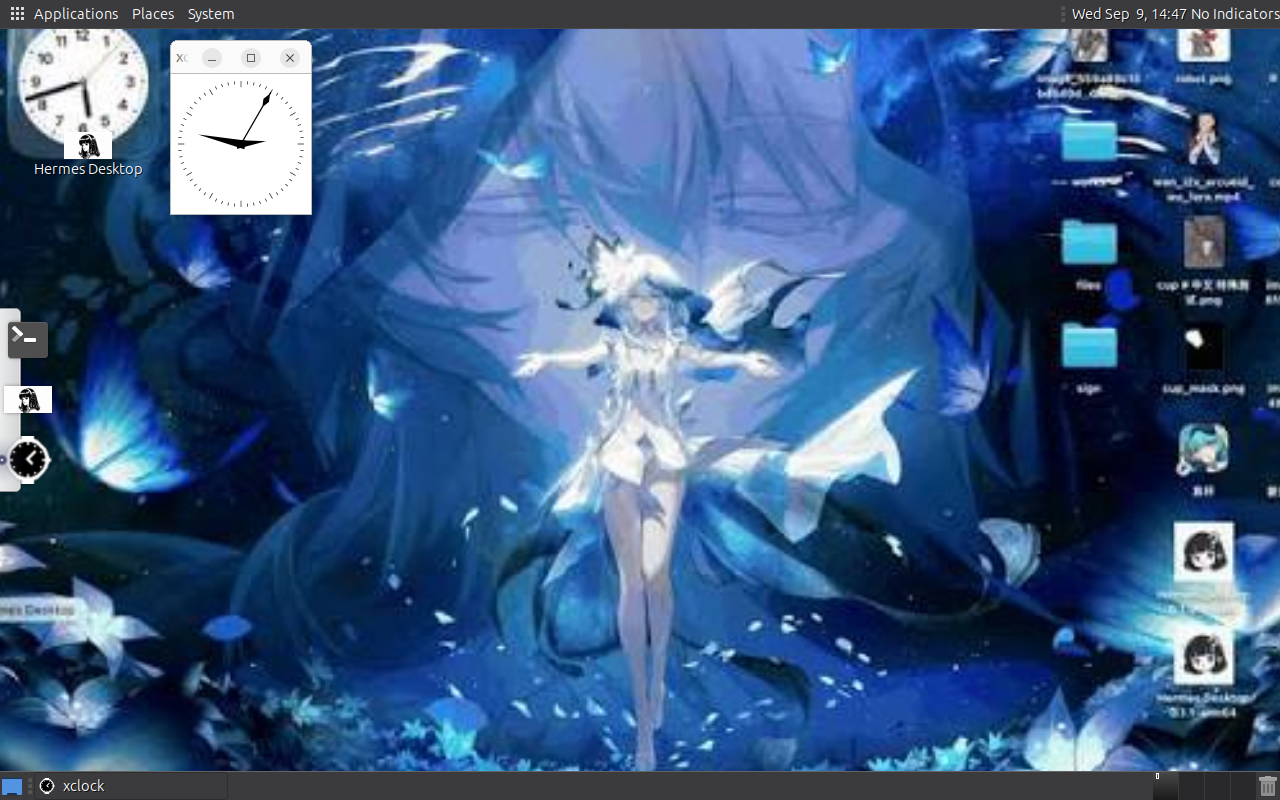
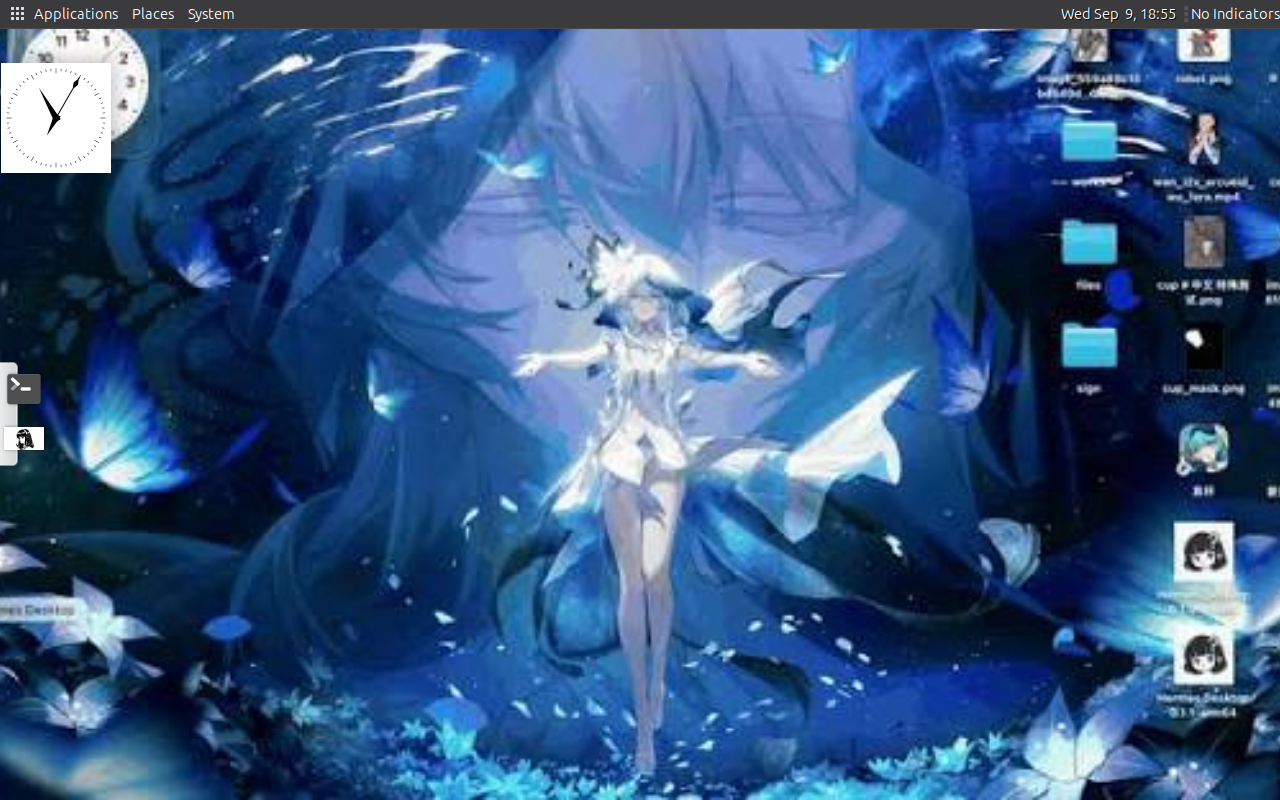
Refresh the MATE preview and verification record from the clean-room run
The screenshot is the desktop a real RDP login lands on after building main at b8d9a1f
into an empty Docker image store, and every row of the verification table is now measured
on that same image: build, health, typed login (display 11 after a container restart),
frameless 110px clock widget, root from a terminal inside the session, 0 upgraded, Hermes
CLI and Desktop app, volume persistence across recreation.

diff --git a/README.md b/README.md
@@ -9,7 +9,7 @@ AI agent in the terminal.
 What a user sees after connecting over RDP, captured in a real `xfreerdp` session logged in as
 `ubuntu` (1280x800, first login, nothing hand-edited afterwards):
 
-![Ubuntu MATE XRDP desktop: blue anime wallpaper, single top panel, left Plank dock, analog clock widget on the wallpaper, Hermes Desktop icon](assets/preview.png)
+![Ubuntu MATE XRDP desktop: the reference wallpaper, single top panel, left Plank dock with Hermes Desktop and the terminal pinned, frameless analog clock widget over the drawn clock](assets/preview.png)
 
 The layout follows the wallpaper: the analog clock widget sits over the drawn clock so the live
 one replaces it, the Plank dock on the left pins Hermes Desktop and the terminal, and only the
@@ -106,18 +106,19 @@ configure Hermes via `hermes setup`.
 ## Verification status
 
 Verified on a GitHub Codespace (`standardLinux32gb`: 4 vCPU, 16 GB RAM, root through
-passwordless sudo) with Docker 29.7.2, building `main` at 39c65d3 into an empty image store.
+passwordless sudo) with Docker 29.7.2, building `main` at b8d9a1f into an image store that
+had been pruned to nothing, so no layer was inherited from an earlier build.
 
 | Check | Result |
 | --- | --- |
-| `docker build` from scratch | PASS - exit 0, image 7.9 GB |
-| GitHub Actions CI build | PASS - run #12 on the same commit |
+| `docker build` from scratch | PASS - exit 0, image 7.91 GB |
+| GitHub Actions CI build | PASS - run #13 on the same commit |
 | Container starts and stays up | PASS - `healthy`, restart count 0 |
 | Healthcheck (`xrdp` + `xrdp-sesman`) | PASS - both processes running, TCP 3389 listening |
 | Real RDP login as `ubuntu` | PASS - username and password typed into the XRDP login window through an `xfreerdp` client session; server log: `login successful for user ubuntu on display 10` |
 | MATE session after login | PASS - session, window manager, panel and Plank all start; no black screen, no disconnect |
-| Desktop layout | PASS - single top panel with menu and clock, left Plank dock with Hermes Desktop and terminal, analog clock widget aligned with the wallpaper, no bottom panel |
-| Root access for the RDP user | PASS - `sudo -i` from that session gives `uid=0(root)`; `sudo -l` shows `(ALL) NOPASSWD: ALL`, `/etc/sudoers.d/ubuntu` is `0440` |
+| Desktop layout | PASS - single top panel with menu and clock, left Plank dock pinning Hermes Desktop and the terminal, 110px frameless analog clock widget over the clock drawn in the wallpaper, no bottom panel, no leftover home/filesystem/trash icons |
+| Root access for the RDP user | PASS - `whoami`, `sudo -i`, `id`, `nproc`, `free -g` and `apt-get -s upgrade` typed into a terminal inside the RDP session (`uid=0(root)`, 4 CPUs, 15 GB); `sudo -l` shows `(ALL) NOPASSWD: ALL`, `/etc/sudoers.d/ubuntu` is `0440` |
 | Image is already patched | PASS - `apt-get update && apt-get -s upgrade` inside the container reports `0 upgraded`; base is Ubuntu 24.04.5 LTS |
 | Hermes CLI | PASS - `hermes --version` -> `Hermes Agent v0.21.1 (2026.9.7)`; `ai` opens the real agent prompt (19 tools, skill list, `/help`) |
 | Hermes Desktop app | PASS - `/usr/local/bin/hermes-desktop-launch` opens the app window inside the RDP session (`Web UI v0.6.7`) |
@@ -133,8 +134,11 @@ to the upstream install, not to this image.
 ## Hermes Desktop (GUI)
 
 Bundles the Electron **Hermes Desktop** app (fork: `jjkh1673-tech/hermes-desktop`, upstream
-`sir1st/hermes-desktop`): launcher on the desktop, icon in the Plank dock, and the black-and-white
-Hermes artwork as its application icon. The CLI agent stays available as `hermes` / `ai`.
-Both editions share the same dock, clock widget and icon styling; the wallpaper is the only thing
-that differs - this XFCE edition keeps the classic dark Ubuntu wallpaper, and the MATE edition
-(ubuntu-mate-xrdp) uses the blue anime wallpaper.
+`sir1st/hermes-desktop`): pinned in the Plank dock, listed in the Applications menu, and the
+black-and-white Hermes artwork as its application icon. The CLI agent stays available as
+`hermes` / `ai`. There is deliberately no copy of the launcher on the desktop itself - the dock is
+where the reference layout puts it, and a desktop icon would end up under the clock widget.
+Both editions share the dock and clock-widget styling; the wallpaper and the clock geometry are
+what differ - this MATE edition uses the blue reference art with the widget over the drawn clock,
+the XFCE edition (ubuntu-xrdp) keeps the classic dark Ubuntu wallpaper, a desktop launcher and the
+widget further to the right.
